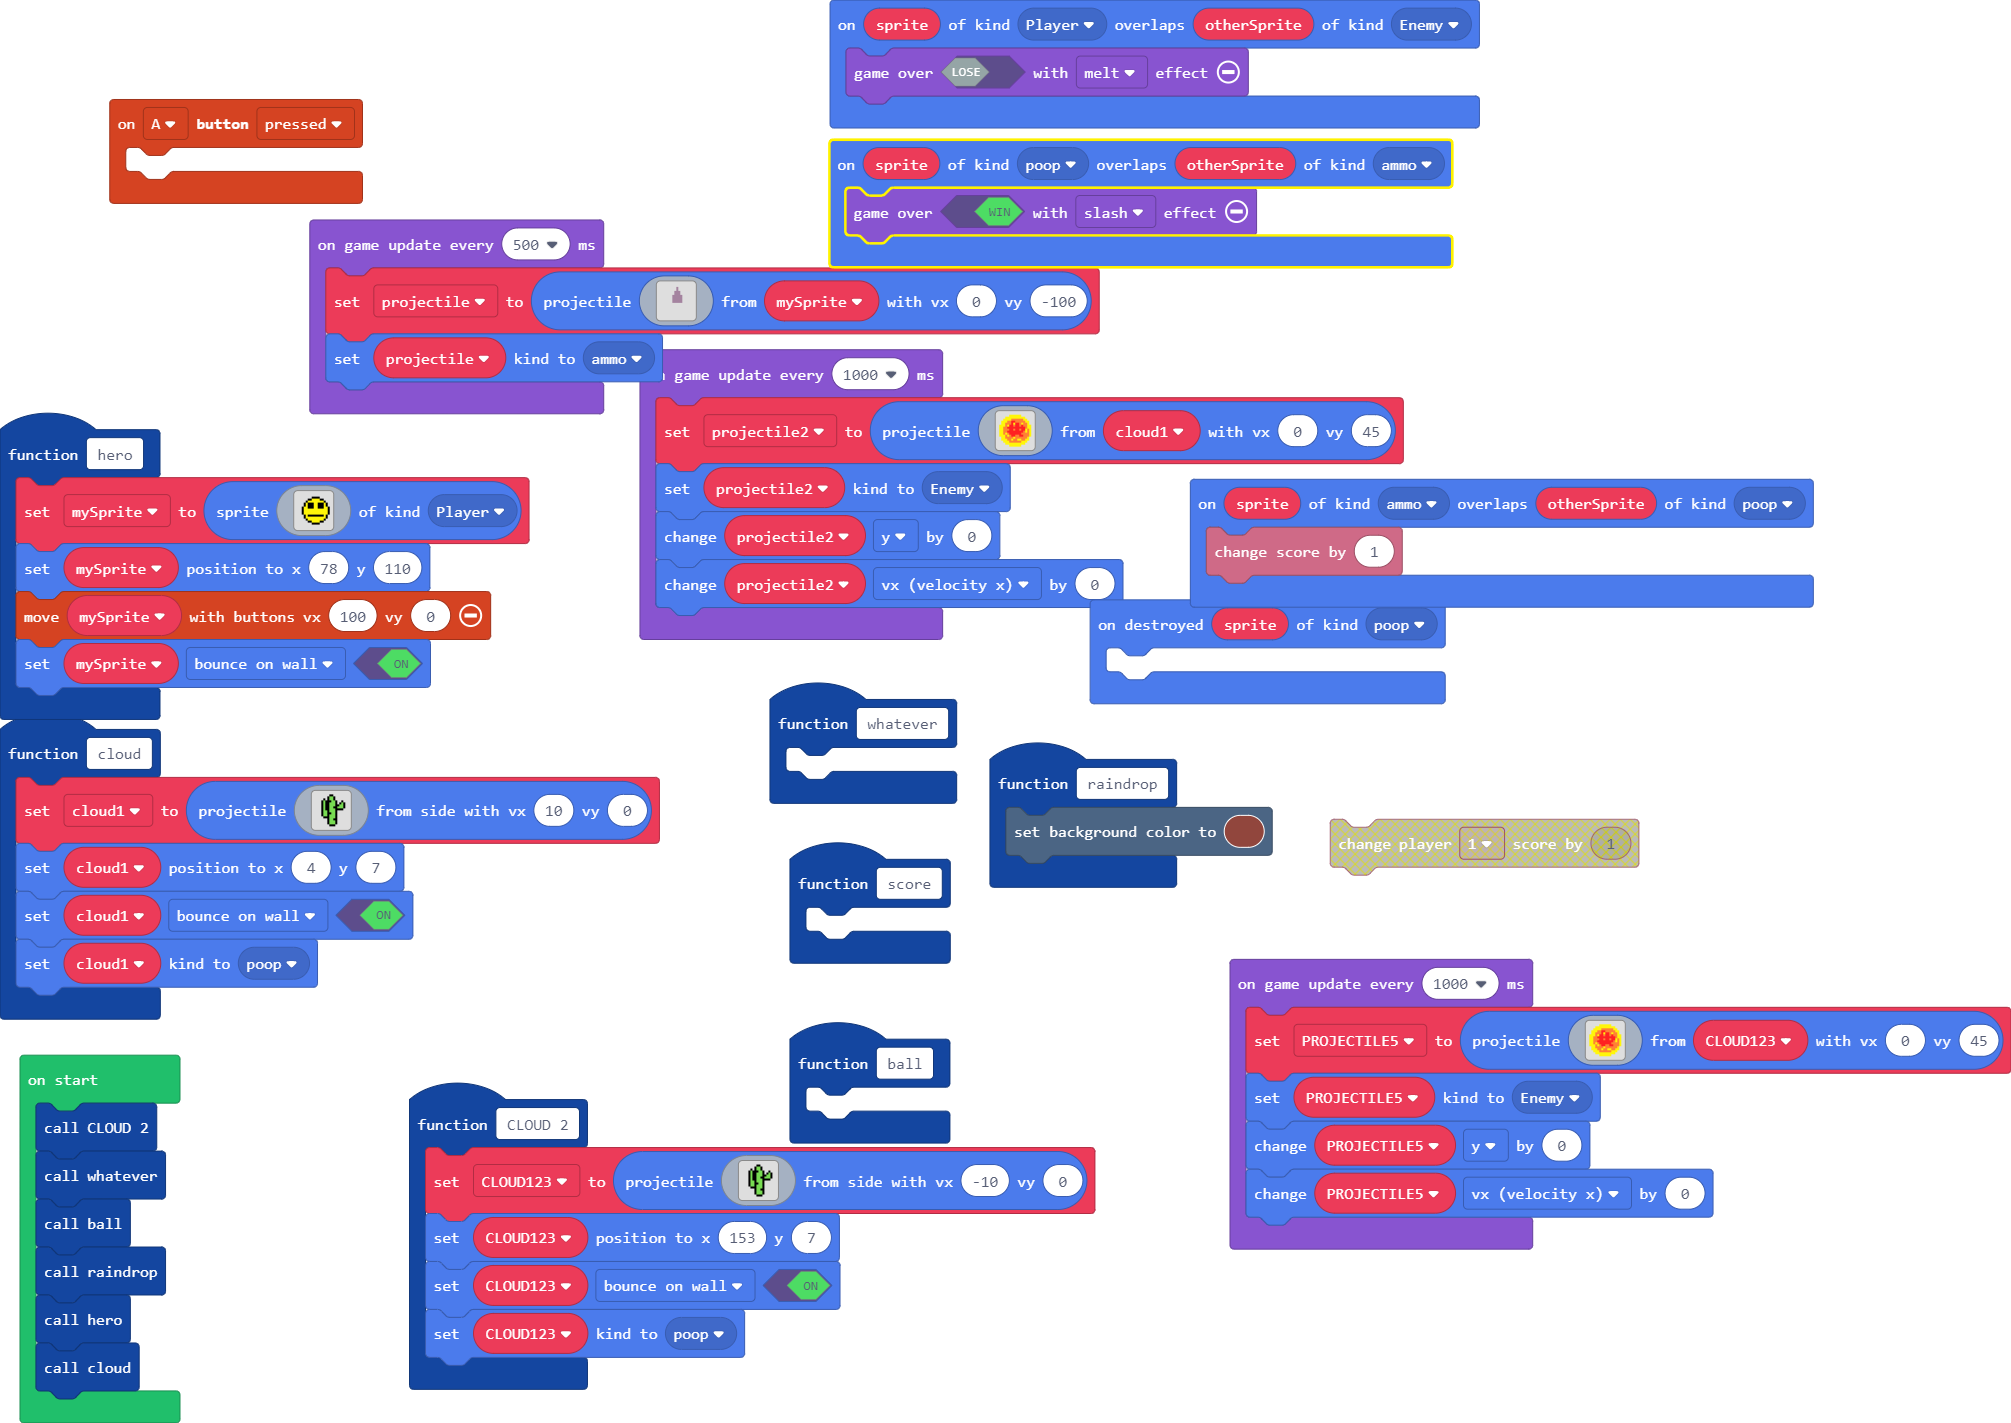
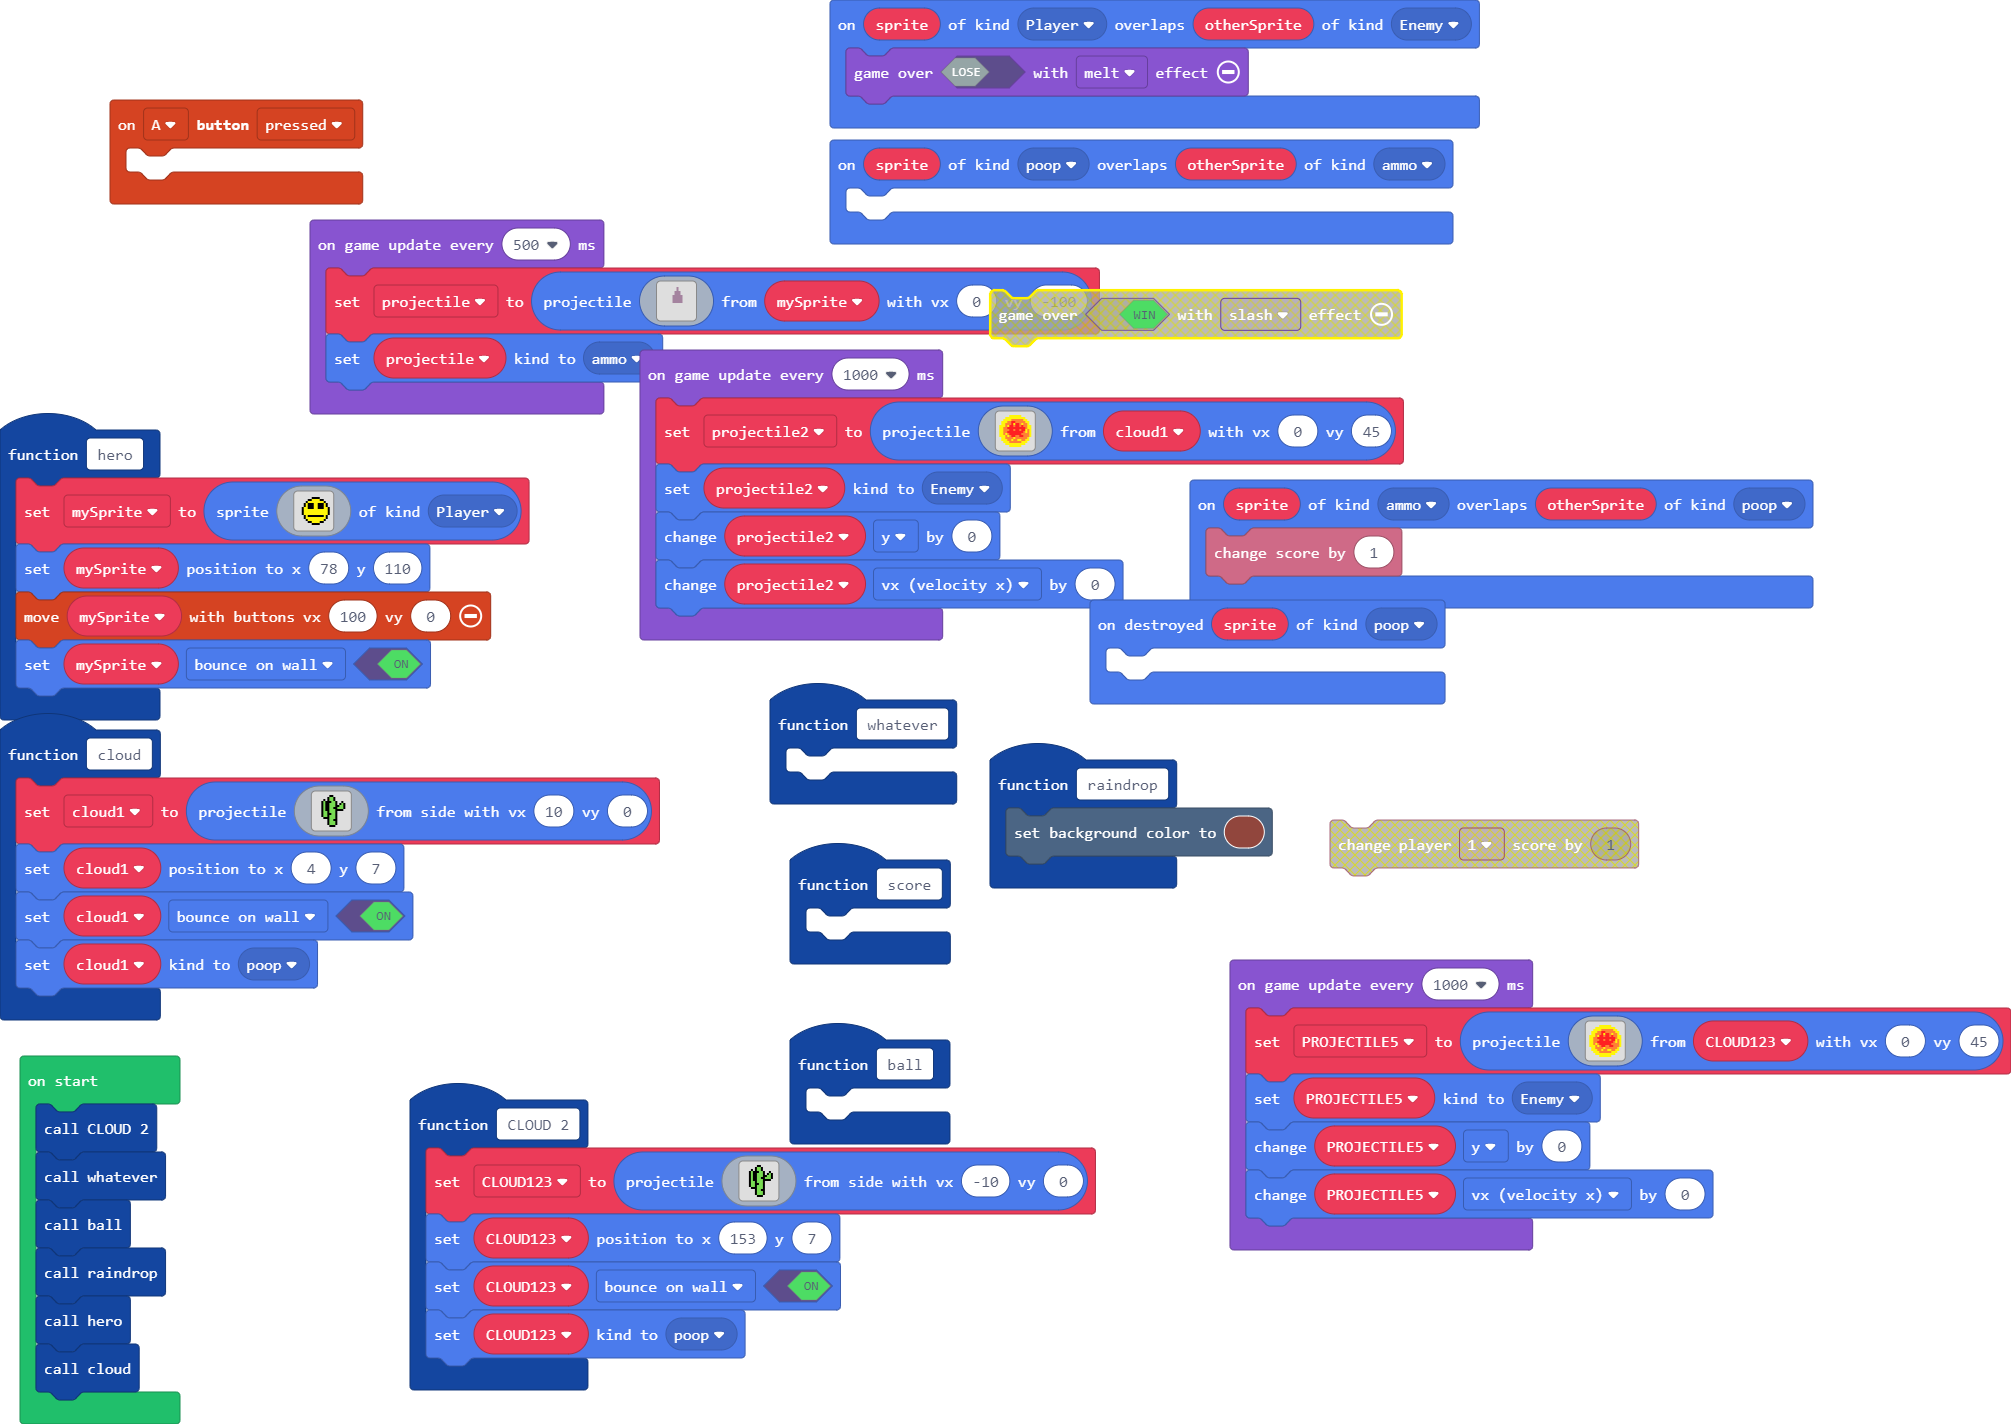
Update main.blocks, main.ts

diff --git a/main.ts b/main.ts
@@ -65,29 +65,6 @@ namespace myTiles {
 sprites.onOverlap(SpriteKind.ammo, SpriteKind.poop, function (sprite, otherSprite) {
     info.changeScoreBy(1)
 })
-function CLOUD_2 () {
-    CLOUD123 = sprites.createProjectileFromSide(img`
-. . . . . . . f f . . . . . . . 
-. . . . . . f 7 7 f . . . . . . 
-. . . . f . f 7 7 f . . . . . . 
-. . . f 7 f f f 7 7 f . . f . . 
-. . . f 7 f f 7 7 7 f . f 7 f . 
-. . . f 7 f f 7 7 7 f f 7 7 f . 
-. . . f 7 f f 7 7 f f 7 7 7 f . 
-. . . f 7 f f 7 7 7 f f f f . . 
-. . . f 7 7 f 7 7 7 f . . . . . 
-. . . f 7 7 f f 7 7 f . . . . . 
-. . . f 7 7 f 7 7 7 f . . . . . 
-. . . . f f f 7 7 7 f . . . . . 
-. . . . . . f 7 7 f f . . . . . 
-. . . . . . f 7 7 7 f . . . . . 
-. . . . . . f 7 7 7 f . . . . . 
-. . . . . . . f f f . . . . . . 
-`, -10, 0)
-    CLOUD123.setPosition(153, 7)
-    CLOUD123.setFlag(SpriteFlag.BounceOnWall, true)
-    CLOUD123.setKind(SpriteKind.poop)
-}
 function hero () {
     mySprite = sprites.create(img`
 . . . . . . . . . . . . . . . . 
@@ -141,7 +118,7 @@ function whatever () {
 	
 }
 sprites.onOverlap(SpriteKind.poop, SpriteKind.ammo, function (sprite, otherSprite) {
-    game.over(true, effects.slash)
+	
 })
 sprites.onDestroyed(SpriteKind.poop, function (sprite) {
 	
@@ -149,6 +126,29 @@ sprites.onDestroyed(SpriteKind.poop, function (sprite) {
 controller.A.onEvent(ControllerButtonEvent.Pressed, function () {
 	
 })
+function CLOUD_2 () {
+    CLOUD123 = sprites.createProjectileFromSide(img`
+. . . . . . . f f . . . . . . . 
+. . . . . . f 7 7 f . . . . . . 
+. . . . f . f 7 7 f . . . . . . 
+. . . f 7 f f f 7 7 f . . f . . 
+. . . f 7 f f 7 7 7 f . f 7 f . 
+. . . f 7 f f 7 7 7 f f 7 7 f . 
+. . . f 7 f f 7 7 f f 7 7 7 f . 
+. . . f 7 f f 7 7 7 f f f f . . 
+. . . f 7 7 f 7 7 7 f . . . . . 
+. . . f 7 7 f f 7 7 f . . . . . 
+. . . f 7 7 f 7 7 7 f . . . . . 
+. . . . f f f 7 7 7 f . . . . . 
+. . . . . . f 7 7 f f . . . . . 
+. . . . . . f 7 7 7 f . . . . . 
+. . . . . . f 7 7 7 f . . . . . 
+. . . . . . . f f f . . . . . . 
+`, -10, 0)
+    CLOUD123.setPosition(153, 7)
+    CLOUD123.setFlag(SpriteFlag.BounceOnWall, true)
+    CLOUD123.setKind(SpriteKind.poop)
+}
 sprites.onOverlap(SpriteKind.Player, SpriteKind.Enemy, function (sprite, otherSprite) {
     game.over(false, effects.melt)
 })
@@ -161,9 +161,9 @@ function ball () {
 let PROJECTILE5: Sprite = null
 let projectile2: Sprite = null
 let projectile: Sprite = null
+let CLOUD123: Sprite = null
 let cloud1: Sprite = null
 let mySprite: Sprite = null
-let CLOUD123: Sprite = null
 CLOUD_2()
 whatever()
 ball()
